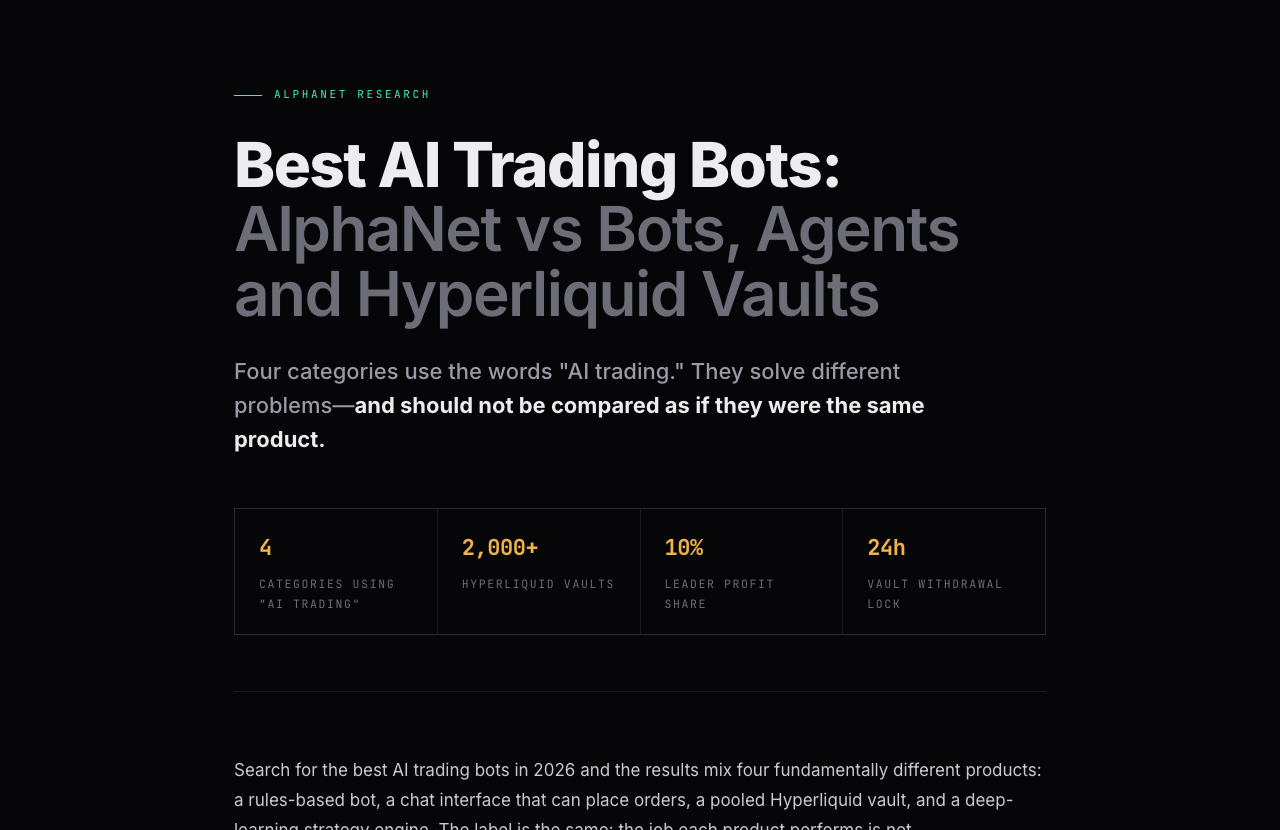
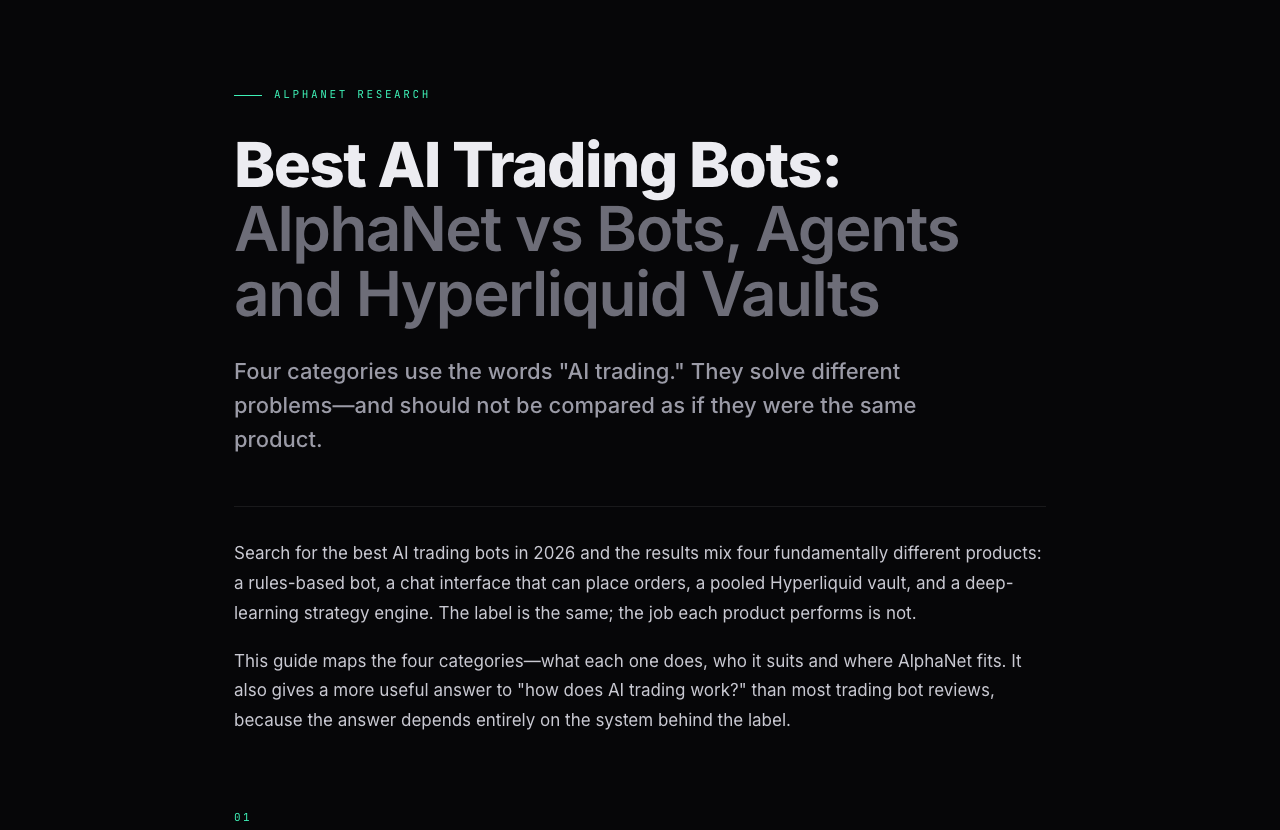
update de ai dex and best ai trading bots

diff --git a/blogs/Best-AI-Trading-Bots/index.html b/blogs/Best-AI-Trading-Bots/index.html
@@ -88,7 +88,7 @@
   .header-btn:hover{color:var(--green);border-color:rgba(62,240,182,.5);background:var(--green-dim)}
 
   /* ---------- hero ---------- */
-  .hero{padding:88px 0 56px;border-bottom:1px solid var(--line)}
+  .hero{padding:88px 0 32px;border-bottom:1px solid var(--line)}
   .kicker{
     font-family:'JetBrains Mono',monospace;
     font-size:11px;letter-spacing:.24em;text-transform:uppercase;
@@ -112,7 +112,7 @@
   .hero-stat .k{font-size:11.5px;letter-spacing:.14em;text-transform:uppercase;color:var(--dim);margin-top:6px;font-family:'JetBrains Mono',monospace}
 
   /* ---------- article ---------- */
-  article{padding:64px 0 0}
+  article{padding:32px 0 0}
   .sec{margin-bottom:72px}
   .sec-tag{
     font-family:'JetBrains Mono',monospace;font-size:11px;letter-spacing:.22em;
@@ -221,13 +221,7 @@
   <section class="hero">
     <div class="kicker">ALPHANET RESEARCH</div>
     <h1>Best AI Trading Bots:<br><span class="thin">AlphaNet vs Bots, Agents and Hyperliquid Vaults</span></h1>
-    <p class="lede">Four categories use the words "AI trading." They solve different problems—<strong>and should not be compared as if they were the same product.</strong></p>
-    <div class="hero-stats">
-      <div class="hero-stat"><div class="v amber">4</div><div class="k">Categories using "AI trading"</div></div>
-      <div class="hero-stat"><div class="v amber">2,000+</div><div class="k">Hyperliquid vaults</div></div>
-      <div class="hero-stat"><div class="v amber">10%</div><div class="k">Leader profit share</div></div>
-      <div class="hero-stat"><div class="v amber">24h</div><div class="k">Vault withdrawal lock</div></div>
-    </div>
+    <p class="lede">Four categories use the words "AI trading." They solve different problems—and should not be compared as if they were the same product.</p>
   </section>
 
   <article>

diff --git a/blogs/decentralized-ai-dex/index.html b/blogs/decentralized-ai-dex/index.html
@@ -88,7 +88,7 @@
   .header-btn:hover{color:var(--green);border-color:rgba(62,240,182,.5);background:var(--green-dim)}
 
   /* ---------- hero ---------- */
-  .hero{padding:88px 0 56px;border-bottom:1px solid var(--line)}
+  .hero{padding:88px 0 32px;border-bottom:1px solid var(--line)}
   .kicker{
     font-family:'JetBrains Mono',monospace;
     font-size:11px;letter-spacing:.24em;text-transform:uppercase;
@@ -116,7 +116,7 @@
   .hero-stat .k{font-size:11.5px;letter-spacing:.14em;text-transform:uppercase;color:var(--dim);margin-top:6px;font-family:'JetBrains Mono',monospace}
 
   /* ---------- article ---------- */
-  article{padding:64px 0 0}
+  article{padding:32px 0 0}
   .sec{margin-bottom:72px}
   .sec-tag{
     font-family:'JetBrains Mono',monospace;font-size:11px;letter-spacing:.22em;
@@ -226,12 +226,6 @@
     <div class="kicker">ALPHANET RESEARCH</div>
     <h1><span class="thin">Why the Future of Asset Management</span><br><span>Is a Decentralized <span class="grad-text">AI&nbsp;DEX</span></span></h1>
     <p class="lede">On-chain asset management replaces custody, opacity and access gates—<strong>with software.</strong></p>
-    <div class="hero-stats">
-      <div class="hero-stat"><div class="v amber">40%</div><div class="k">Weekend crisis volume on-chain</div></div>
-      <div class="hero-stat"><div class="v green">24/7</div><div class="k">One market that never closes</div></div>
-      <div class="hero-stat"><div class="v amber">2025</div><div class="k">Builder-deployed markets live</div></div>
-      <div class="hero-stat"><div class="v amber">1</div><div class="k">Venue, collateral &amp; margin system</div></div>
-    </div>
   </section>
 
   <article>
